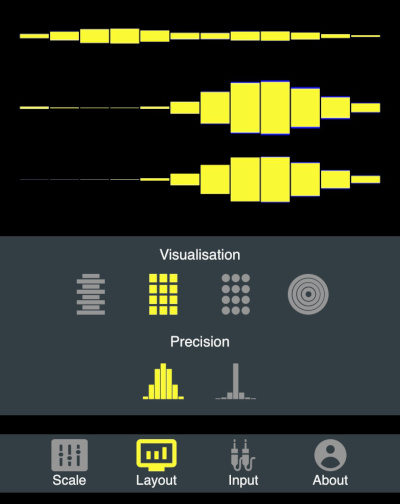
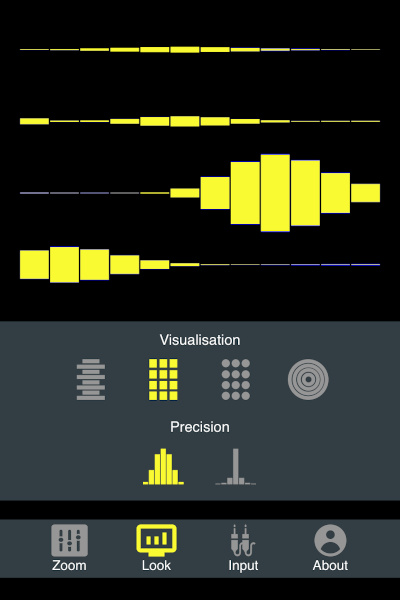
Update.

Changed region(s): [[0.0, 0.1488, 1.0, 0.9821], [0.03, 0.0298, 0.96, 0.0893]]

diff --git a/pages/user-guide.html b/pages/user-guide.html
@@ -100,8 +100,8 @@ The speed of vibrations is measured throught <strong>frequency</strong>, which q
 how many vibrations happen per second (<strong>Hertz</strong>).
 The <strong>faster</strong> the air pressure vibrates, the <strong>higher</strong> is the frequency, and the higher the pitch we hear.
 <strong>Human ear</strong> can perceive frequencies roughly between <strong>20</strong> and <strong>20,000</strong> Hertz.
-The lowest frequency sounds we can hear with vibrate 20 times per second.
-The highest frequency sounds we can hear with vibrate 20,000 times per second.
+The lowest frequency sounds we can hear vibrate 20 times per second.
+The highest frequency sounds we can hear vibrate 20,000 times per second.
 There is an <strong>infinite continuum of frequencies</strong> between 20 and 20,000 Hertz...
 In <strong>music</strong>, we select a <strong>finite</strong> number of frequencies from this continuum and call them <strong>notes</strong>.
 Which <strong>specific frequencies</strong> we select determines the <strong>scale</strong> in which the music is composed.</p>
@@ -145,7 +145,7 @@ if you feed the sound at the sample rate of 44,100, the
 highest frequency that will be detected is 22,050.
 The input sample rate can be selected using the
 "Input" icon from the toolbar:</p>
-<p><img alt="Input settings" class="img-fluid mx-auto" src="https://vsound.app/images/intro/sample_rate.jpg"></p>
+<p><img alt="Input settings" class="img-fluid mx-auto" src="https://vsound.app/images/intro/input.jpg"></p>
 <p>Most of the people will use the input from the microphone.
 But if you have an input audio device attached, you can
 select to feed the sound from it into the app.
@@ -156,13 +156,13 @@ handle the sound in real-time, even if the buffer
 size was just one audio sample.</p>
 <h4 id="visualisations-available">Visualisations available</h4>
 <p>The app can display the amplitudes of the notes it detects
-in various layouts. Some of the layouts help perceiving the
-related notes better than a simple linear layout, because
+in various layouts ("looks"). Some of the looks help perceiving
+the related notes better than a simple linear layout, because
 they display the notes that are octave apart next to
 each other (more on this below).</p>
-<p>You can use "Layout" icon from the toolbar to
+<p>You can use "Look" icon from the toolbar to
 select the preferred visualisation:</p>
-<p><img alt="Layout settings" class="img-fluid mx-auto" src="https://vsound.app/images/intro/layout_settings.jpg"></p>
+<p><img alt="Look settings" class="img-fluid mx-auto" src="https://vsound.app/images/intro/look.jpg"></p>
 <h5 id="linear-visualisation-1">Linear visualisation (#1)</h5>
 <p>Displays the amplitides on notes
 arranged linearly in a vertical line, with higher notes displayed
@@ -172,7 +172,7 @@ Note that the app uses a novel frequency detection
 algorithm that does not have the typical noise in the
 low frequencies generated by Fourier transform using
 short sound windows for detection:</p>
-<p><img alt="Linear visualisation" class="img-fluid mx-auto" src="https://vsound.app/images/intro/layout_linear.jpg"></p>
+<p><img alt="Linear visualisation" class="img-fluid mx-auto" src="https://vsound.app/images/intro/look_linear.jpg"></p>
 <p>The yellow meters show the current amplitude of each
 detected note, whereas the blue meters show the averaged
 "trace" amplitude over a recent period of time.
@@ -182,7 +182,7 @@ up or down (for example, if you sing into the microphone).</p>
 <p>Arranges all detected
 notes into 10 rows of 12 notes each, with every row comprising
 one octave:</p>
-<p><img alt="Rectangles visualisation" class="img-fluid mx-auto" src="https://vsound.app/images/intro/layout_squares.jpg"></p>
+<p><img alt="Rectangles visualisation" class="img-fluid mx-auto" src="https://vsound.app/images/intro/look_squares.jpg"></p>
 <p>Each rectangle's height corresponds to the amplitude of the detected note.
 Looking at a visualisation like this helps to see if
 two notes that are octave apart are played at the same
@@ -195,7 +195,7 @@ visualisation, with the ony difference that it displays
 circles instead of rectangles. The radius of the
 displayed circles is proportional to the amplitude
 of the detected notes:</p>
-<p><img alt="Bubbles visualisation" class="img-fluid mx-auto" src="https://vsound.app/images/intro/layout_bubbles.jpg"></p>
+<p><img alt="Bubbles visualisation" class="img-fluid mx-auto" src="https://vsound.app/images/intro/look_bubbles.jpg"></p>
 <p>Above, I was also singing "mmmmm" into the microphone,
 but I tried to got from lower to higher pitch, and so you
 see the blue "tracers" to the left of the big bubbles.
@@ -207,12 +207,12 @@ when I am listening to rhythmic music. It arranges the
 notes in octaves (12 notes) going around the circle,
 kinda like a clock. The lowest notes are in the centre
 of the display:</p>
-<p><img alt="Circle visualisation" class="img-fluid mx-auto" src="https://vsound.app/images/intro/layout_circle.jpg"></p>
+<p><img alt="Circle visualisation" class="img-fluid mx-auto" src="https://vsound.app/images/intro/look_circle.jpg"></p>
 <p>Above, I just said "tsss" into the microphone, so you
 mainly see the high frequencies (on the outside) being
 activated. It's much more fun to watch this in real time.</p>
 <h4 id="high-precision-note-detection">High-precision note detection</h4>
-<p>You might have noticed the "Precision" option in the "Layout" settings.
+<p>You might have noticed the "Precision" option in the "Look" settings.
 There are two icons indicating <strong>low</strong> and <strong>high</strong> precision note detection.
 Below you can see two screenshots with this feature,
 while I am trying to sing the same note into the microphone.</p>
